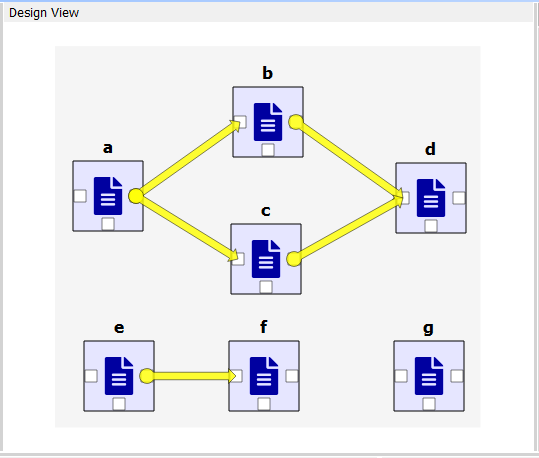
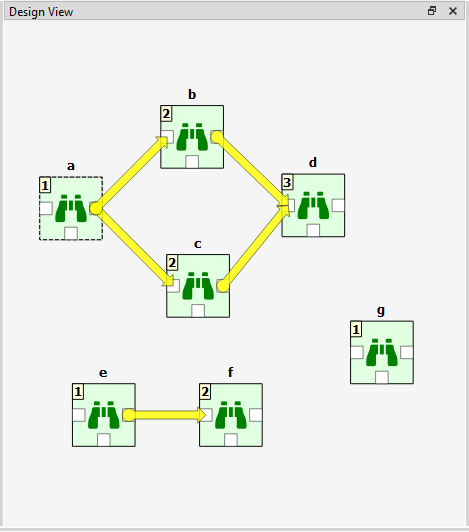
Update Executing Projects page in User guide
Re #1386

diff --git a/docs/source/executing_projects.rst b/docs/source/executing_projects.rst
@@ -38,15 +38,29 @@ DAGs if they break the rules above. Here is an example project with three DAGs.
 - DAG 2: items: e, f. connections: e-f
 - DAG 3: items: g. connections: None
 
-When you press the |play-all| button, all three DAGs are executed in a row. You can see the progress
-and the current executed item in the *Event Log*. Execution order of DAG 1 is *a->b->c->d* or
-*a->c->b->d* since items b and c are **siblings**. DAG 2 execution order is *e->f* and DAG 3 is just
-*g*. If you have a DAG in your project that breaks the rules above, that DAG is skipped and the
-execution continues with the next DAG.
+The numbers on the upper left corners of the icons show the item's **execution ranks**
+which roughly tell the order of execution within a DAG.
+Execution order of DAG 1 is *a->b->c->d* or *a->c->b->d* because b and c are **siblings**
+which is also indicated by their equal execution rank.
+DAG 2 execution order is *e->f* and DAG 3 is just *g*.
+All three DAGs are executed in a row though which DAG gets executed first is undefined.
+Therefore all DAGs have their execution ranks starting from 1.
+
+After you press the |play-all| button, you can follow the progress
+and the current executed item in the *Event Log*.
+Design view also animates the execution.
+
+Items in a DAG that breaks the rules above are marked by X as their rank.
+Such DAGs are skipped during execution.
+The image below shows such a DAG where the items form a loop.
+
+.. image:: img/dag_broken.png
+   :align: center
 
 We use the words **predecessor** and **successor** to refer to project items that are upstream or
-dowstream from a project item. **Direct predecessor** is a project item that is the immediate predecessor.
-**Direct Successor** is a project item that is the immediate successor. For example, in DAG 1 above, the
+downstream from a project item. **Direct predecessor** is a project item that is the immediate predecessor
+while **Direct Successor** is a project item that is the immediate successor.
+For example, in DAG 1 above, the
 successors of *a* are project items *b*, *c* and *d*. The direct successor of *b* is *d*. The
 predecessor of *b* is *a*, which is also its direct predecessor.
 
@@ -56,50 +70,53 @@ execute and pressing the |play-selected| button in the tool bar. For example, to
 widget and then press the |play-selected| button.
 
 .. tip::
-   You can select multiple project items by pressing the Ctrl-button down and clicking on
-   desired items.
+   You can select multiple project items by holding the Ctrl-key down and clicking on
+   desired items or by drawing a rectangle on the *Design view*.
 
 
 Example DAG
 ===========
 
 When you have created at least one Tool specification, you can execute a Tool as part of the DAG. The
-Tool specification defines the process that is depicted by the Tool project item. As an example, below
-we have two project items; *Julia Model* Tool and *Data File* Data Connection connected to each other.
-
-.. image:: img/execution_julia_tool_selected.png
-   :align: center
-
-Selecting the *Julia Model* shows its properties in the *Properties* dock widget. In the top of the Tool
-Properties, there is a specification drop-down menu. From this drop-down menu, you can select the Tool specification
-for this particular Tool item. The *Julia Model Specification* tool specification has been selected for the Tool
-*Julia Model*. Below the drop-down menu, you can see the details of the Tool specification, command line arguments,
-Source files (the first one is the main program file), Input files, Optional input files and Output files.
-*Results...* button opens the Tool's result archive directory in the File Explorer (all Tools have their own result
-directory). The *Execute in* radio buttons control, whether this Tool is first copied to a work directory and executed
-there, or if the execution should happen in the source directory where the main program file is located.
-
-When you click on the |play-all| button, the execution starts from the *Data File* Data Connection. When executed,
-Data Connection items *advertise* their files and references to project items that are in the same DAG and
-executed after them. In this particular example, the *Data File* item contains a file called *data.csv* as depicted
-in the picture below.
+Tool specification defines the process that is executed by the Tool project item. As an example, below
+we have two project items; *Data File* Data Connection and *Julia Model* Tool connected to each other.
 
 .. image:: img/execution_data_connection_selected.png
    :align: center
 
-When it's the *Julia Model* tools turn to be executed, it checks if it finds the file *data.csv* from project items,
-that have already been executed. When the DAG is set up like this, the Tool finds the input file that it requires
-and then starts processing the Tool specification starting with the main program file *script.jl*. Note that if the
-connection would be the other way around (from *Julia Model* to *Data File*) execution would start from the
-*Julia Model* and it would fail because it cannot find the required file *data.csv*. The same thing happens if there
-is no connection between the two project items. In this case the project items would be in separate DAGs.
+In ths example, *Data File* has a single file reference ``data.csv``.
+Data Connections make their files visible to direct successors
+and thus the connection between *Data File* and *Julia Model* provides ``data.csv`` to the latter.
+
+Selecting the *Julia Model* shows its properties in the *Properties* dock widget.
+
+.. image:: img/execution_julia_tool_selected.png
+   :align: center
+
+In the top of the Tool Properties, there is a specification drop-down menu.
+From this drop-down menu, you can select the Tool specification for this particular Tool item.
+The *Julia Model Specification* tool specification has been selected for *Julia Model*.
+Below the drop-down menu, you can choose a precompiled sysimage
+and edit Tool's command line arguments.
+Note that the command line argument editor already 'sees' the ``data.csv`` file provided by **Data File**.
+*Results...* button opens the Tool's result archive directory in system's file browser
+(all Tools have their own result directory).
+The *Execute in* radio buttons control, whether this Tool is first copied to a work directory and executed
+there, or if the execution should happen in the source directory where the main program file is located.
+
+When you click on the |play-all| button, the execution starts from the *Data File* Data Connection
+as indicated by the execution rank numbers.
+When executed, Data Connection items *advertise* their files and references
+to project items that are their direct successors.
+In this particular example, ``data.csv`` contained in *Data File*
+is also a required input file in *Julia Model Specification*.
+When it is the *Julia Model* tool's turn to be executed, it checks if it finds the ``data.csv`` from
+its direct predecessor items that have already been executed.
+Once the input file has been found the Tool starts processing the main program file *script.jl*.
+Note that if the connection would be the other way around (from *Julia Model* to *Data File*)
+execution would start from the *Julia Model* and it would fail because it cannot find the required ``data.csv``.
+The same thing happens if there is no connection between the two project items.
+In this case the project items would be in separate DAGs.
 
 Since the Tool specification type was set as *Julia* and the main program is a Julia script, Spine Toolbox starts the
 execution in the Julia Console (if you have selected this in the application *Settings*, See :ref:`Settings` section).
-
-Tool execution algorithm
-========================
-The below figure depicts what happens when a Tool item with a valid Tool specification is executed.
-
-.. image:: img/execution_algorithm.png
-   :align: center
